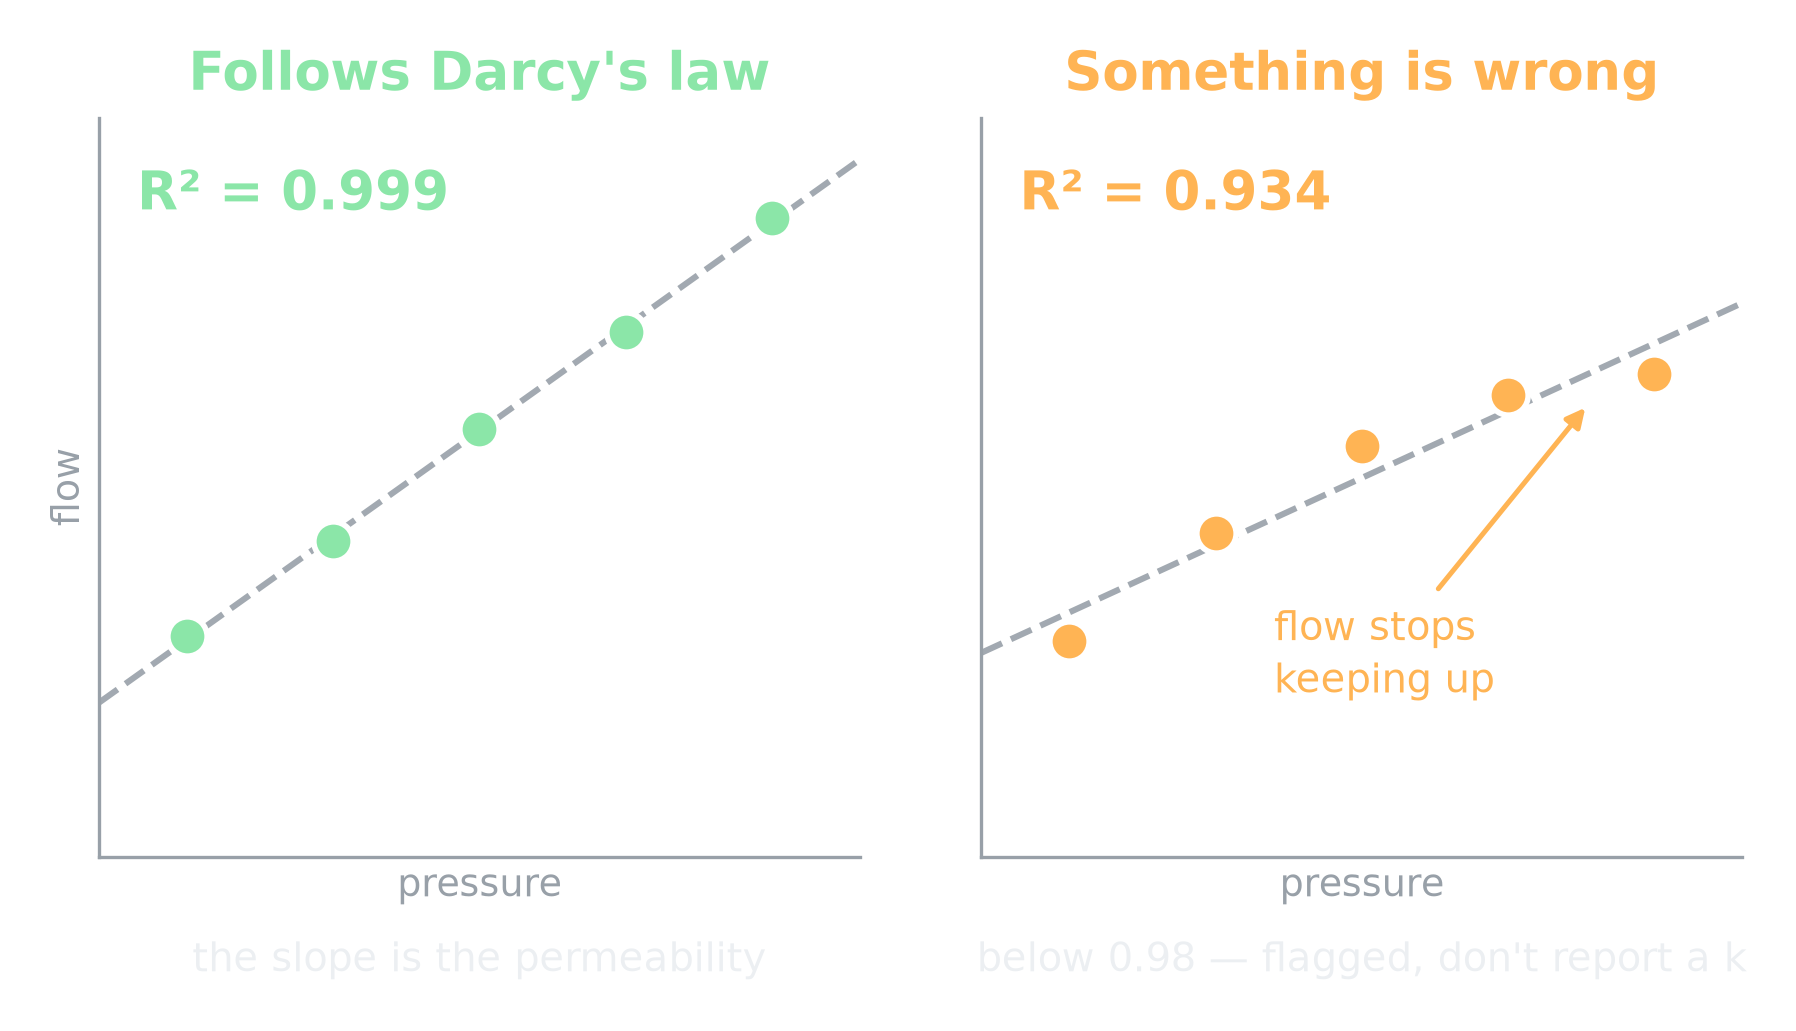
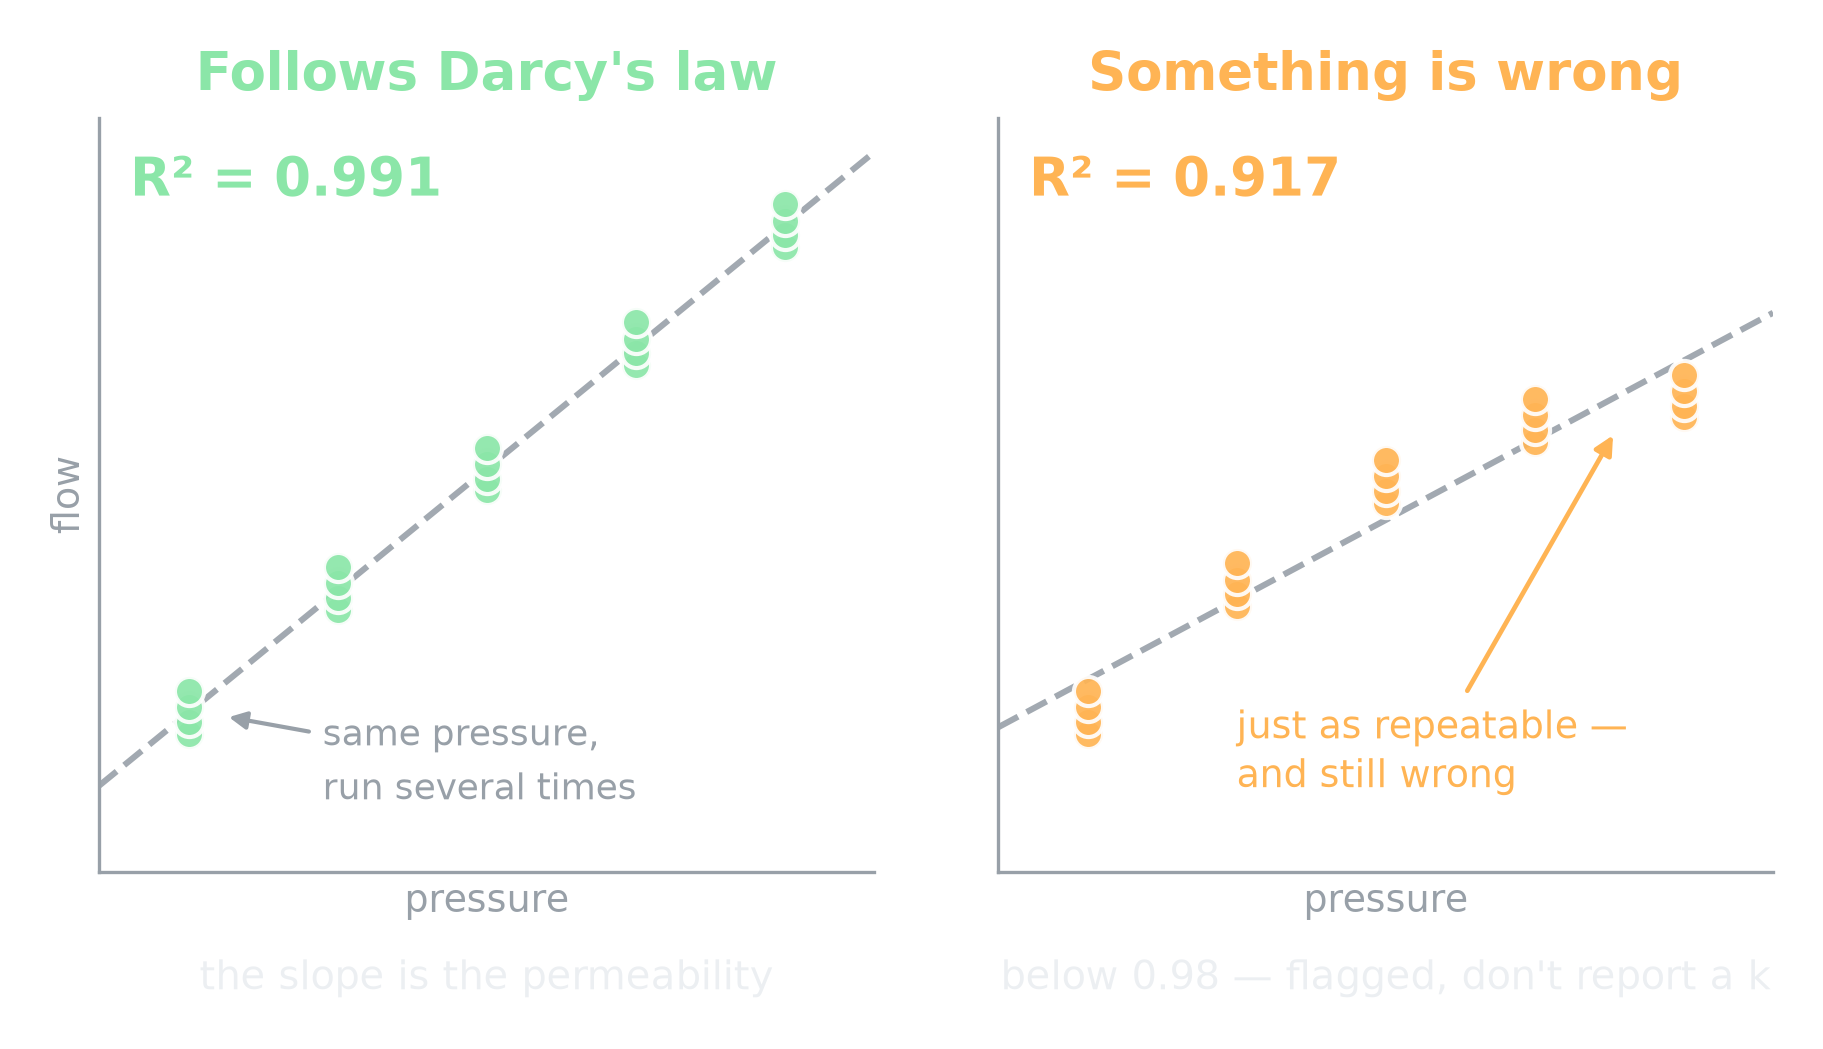
docs(talk): show replicates — several runs at each pressure, several pressures
Adrián's call, and it makes the figure honest about what the bench gives you:
clusters, not single points. Four runs at each of five pressures.

It also sharpens the contrast. The bad panel's clusters are just as TIGHT as
the good one's — equally repeatable — and it still fails at R² 0.917. That
separates the two things a reader tends to conflate: scatter within a
pressure (how repeatable) versus whether the points fall on a line at all
(whether the physics holds). A rig can be perfectly reproducible and
perfectly wrong, and only the second question is what R² answers.

Both R² values still computed from the plotted points.

diff --git a/docs/talk/gen_talk_figs.py b/docs/talk/gen_talk_figs.py
@@ -341,6 +341,10 @@ def fig_test_concept():
 # failure the rig is actually exposed to. R2 values are computed from the
 # plotted points, not invented.
 def fig_darcy_check():
+    """Replicates, the way the bench actually gives them: the same pressure run
+    several times, across several pressures. The bad panel is deliberately just
+    as REPEATABLE as the good one — its clusters are equally tight — so the
+    figure makes the point that reproducible is not the same as correct."""
     def ols_r2(xs, ys):
         n = len(xs)
         mx, my = sum(xs) / n, sum(ys) / n
@@ -352,39 +356,52 @@ def fig_darcy_check():
         return a, b, 1 - ss_res / ss_tot
 
     P = [20, 30, 40, 50, 60]
-    good = [1.02 * p + 0.6 for p in P]                    # a line, faint noise
-    good = [g + d for g, d in zip(good, (0.5, -0.4, 0.3, -0.5, 0.4))]
-    # Flow that stops keeping up: the mesh blinding, or turbulence setting in.
-    # A GENTLE bend is not enough — with five points a mild curve still fits a
-    # line at R2 > 0.99, which is exactly why R2 alone is a coarse check.
-    bad = [21.0, 31.5, 40.0, 45.0, 47.0]
+    JIT = (-1.9, -0.65, 0.65, 1.9)                # replicate spread, same setpoint
+    GOOD_MEAN = [21.0, 31.2, 41.0, 51.3, 61.0]    # on a line
+    BAD_MEAN = [21.0, 31.5, 40.0, 45.0, 47.0]     # flow stops keeping up
 
-    fig, axes = plt.subplots(1, 2, figsize=(10.6, 4.8))
-    for ax, ys, title, colour, verdict in (
-        (axes[0], good, "Follows Darcy's law", GOOD, "the slope is the permeability"),
-        (axes[1], bad, "Something is wrong", WARN, "below 0.98 — flagged, don't report a k"),
+    def spread(means):
+        xs, ys = [], []
+        for p, m in zip(P, means):
+            for k, j in enumerate(JIT):
+                xs.append(p)
+                ys.append(m + j * (1.0 if k % 2 else 0.85))
+        return xs, ys
+
+    fig, axes = plt.subplots(1, 2, figsize=(10.8, 4.9))
+    for ax, means, title, colour, verdict in (
+        (axes[0], GOOD_MEAN, "Follows Darcy's law", GOOD,
+         "the slope is the permeability"),
+        (axes[1], BAD_MEAN, "Something is wrong", WARN,
+         "below 0.98 — flagged, don't report a k"),
     ):
-        a, b, r2 = ols_r2(P, ys)
+        xs, ys = spread(means)
+        a, b, r2 = ols_r2(xs, ys)
         fx = [14, 66]
         ax.plot(fx, [a + b * x for x in fx], color=DIM, lw=2.2, ls="--",
                 alpha=0.9, zorder=1)
-        ax.scatter(P, ys, s=200, color=colour, edgecolor="white",
-                   linewidth=2.0, zorder=3)
+        ax.scatter(xs, ys, s=110, color=colour, edgecolor="white",
+                   linewidth=1.5, alpha=0.92, zorder=3)
         ax.set_title(title, color=colour, fontsize=19, fontweight="bold", pad=10)
-        ax.text(0.05, 0.93, f"R² = {r2:.3f}", transform=ax.transAxes,
+        ax.text(0.04, 0.95, f"R² = {r2:.3f}", transform=ax.transAxes,
                 fontsize=19, color=colour, fontweight="bold", va="top")
         ax.text(0.5, -0.155, verdict, transform=ax.transAxes, fontsize=14.5,
                 color=INK, ha="center")
         ax.set_xlim(14, 66)
-        ax.set_ylim(0, 72)
+        ax.set_ylim(8, 70)
         ax.set_xlabel("pressure", fontsize=13.5, color=DIM)
         bare(ax, keep_ticks=False)
     axes[0].set_ylabel("flow", fontsize=13.5, color=DIM)
-    axes[1].annotate("flow stops\nkeeping up",
-                     xy=(56, bad[4] - 2), xytext=(34, 16), fontsize=14.5,
-                     color=WARN, linespacing=1.3,
-                     arrowprops=dict(arrowstyle="-|>", color=WARN, lw=1.8,
-                                     shrinkA=4, shrinkB=6, mutation_scale=14))
+
+    # name what a column is, once
+    axes[0].annotate("same pressure,\nrun several times", xy=(21.6, 21.0),
+                     xytext=(29, 14), fontsize=13, color=DIM, linespacing=1.3,
+                     arrowprops=dict(arrowstyle="-|>", color=DIM, lw=1.5,
+                                     shrinkA=3, shrinkB=6, mutation_scale=13))
+    axes[1].annotate("just as repeatable —\nand still wrong", xy=(56, 45.5),
+                     xytext=(30, 15), fontsize=13.5, color=WARN, linespacing=1.3,
+                     arrowprops=dict(arrowstyle="-|>", color=WARN, lw=1.7,
+                                     shrinkA=3, shrinkB=8, mutation_scale=14))
     fig.subplots_adjust(wspace=0.16)
     save(fig, "talk_darcy_check.png")
 
